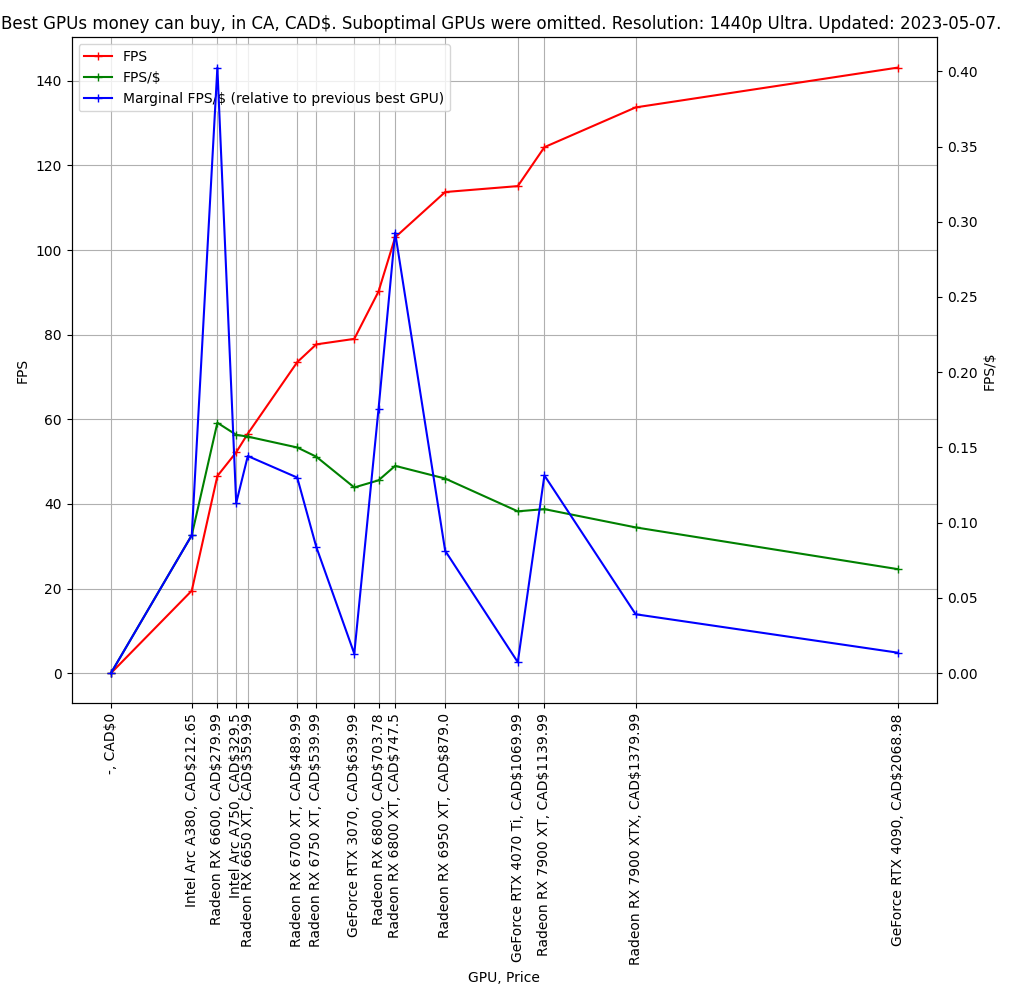
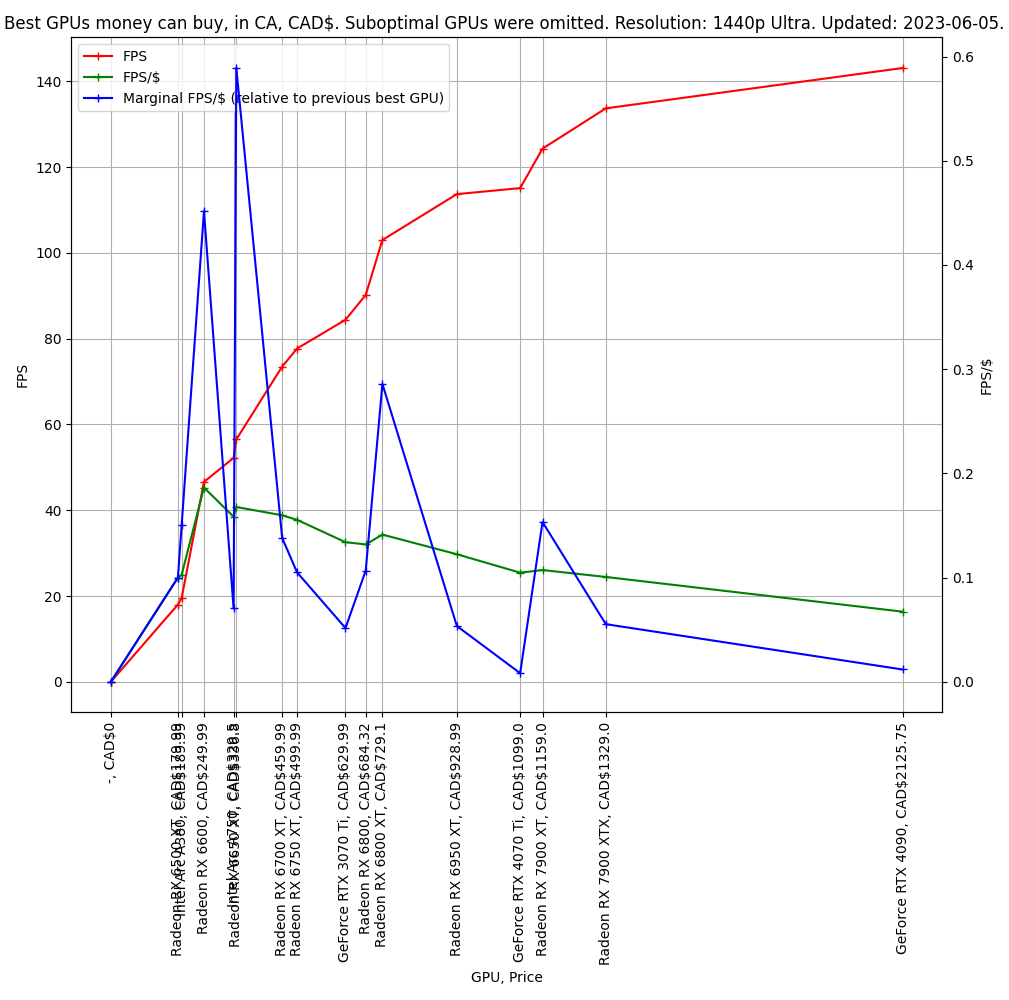
Updated 1 screenshot

diff --git a/gpus.py b/gpus.py
@@ -13,11 +13,11 @@ from time import sleep
 # from pcpartpicker import API
 
 debug = False
-region = 'us'  # 'us', 'ca', etc.
-currency = 'USD$'  # 'USD$', 'CAD$', etc. Affects only labels.
+region = 'ca'  # 'us', 'ca', etc.
+currency = 'CAD$'  # 'USD$', 'CAD$', etc. Affects only labels.
 limit = 100  # 20, 40, 60, 80, 100, etc. Affects speed, larger number is slower but less likely to miss a lower price.
 table_N = 0  # 0 Regular, 1 Ray Tracing
-column_N = 1  # 1, 2, 3, 4
+column_N = 3  # 1, 2, 3, 4
 
 columns = {
     1: '1080p Ultra',
